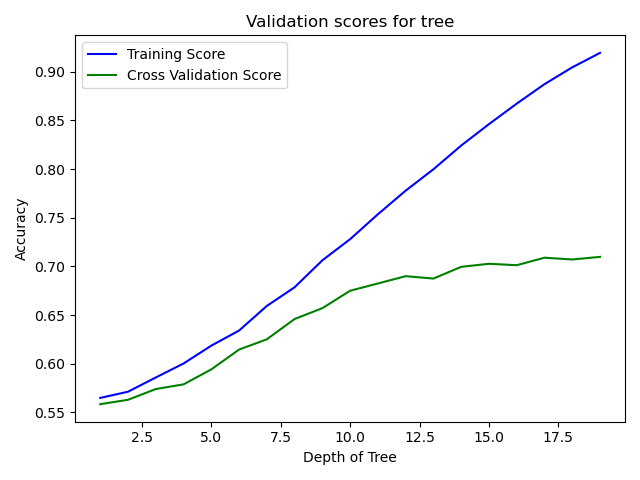
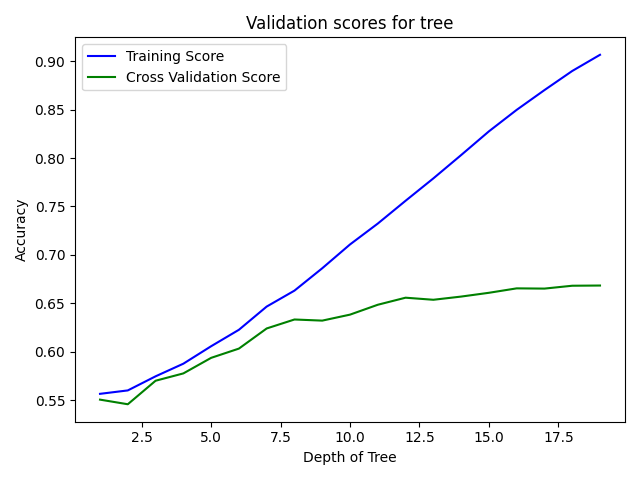
Obtained more entries. 650k entries.
Basically resorted the lists before the name matching because the filtering we were doing was causing it to desort.

diff --git a/inventors_network_reworked_part_1.py b/inventors_network_reworked_part_1.py
@@ -55,13 +55,13 @@ companyTickers = []
 #assigns arrays to proper fields in the dataset
 companyNames = df["Assignee"].tolist()
 stockNames = stocksDF["Name"].tolist()
-tickers = stocksDF["Ticker"].tolist()
 
 # Formats assignee names to make matching easier
 for i in range(len(companyNames)):
     companyNames[i] = companyNames[i].upper()
     if ' ' in companyNames[i]:
         # Checks if inc or corp are in the second word as they aren't always listed the same in both datasets
+        #if "INC" in companyNames[i].split()[1] or "CORP" in companyNames[i].split()[1] or "LTD" in companyNames[i].split()[1]:
         if "INC" in companyNames[i].split()[1] or "CORP" in companyNames[i].split()[1]:
             companyNames[i] = companyNames[i].split()[0]
         else:
@@ -72,11 +72,32 @@ for i in range(len(stockNames)):
     stockNames[i] = stockNames[i].upper()
     if ' ' in stockNames[i]:
         # Checks if inc or corp are in the second word as they aren't always listed the same in both datasets
+        #if "INC" in stockNames[i].split()[1] or "CORP" in stockNames[i].split()[1] or "LTD" in stockNames[i].split()[1]:
         if "INC" in stockNames[i].split()[1] or "CORP" in stockNames[i].split()[1]:
             stockNames[i] = stockNames[i].split()[0]
         else:
             stockNames[i] = stockNames[i].split()[0] + " " + stockNames[i].split()[1]
 
+
+# This reassigns the Assignee column to the new filtered company Names
+df["Assignee"] = companyNames
+# We then resort the dataframe by those Assignee names to use binary search
+df = df.sort_values(by="Assignee")
+# Then we grab those names
+companyNames = df["Assignee"].tolist()
+
+# This reassigns the Name column to the new filtered stock Names
+stocksDF["Name"] = stockNames
+# We then resort the dataframe by those Name names to use binary search
+stocksDF = stocksDF.sort_values(by="Name")
+# Then we grab those names
+stockNames = stocksDF["Name"].tolist()
+
+print(companyNames[0:10])
+print(stockNames[0:10])
+
+# Assigns the tickers list to the Ticker column in the Quotemedia ticker dataset
+tickers = stocksDF["Ticker"].tolist()
 
 print("Matching assignee names to public company names to retrieve tickers")
 # Gets the tickers of the companies from the new stocksDF

diff --git a/inventors_network_reworked_part_2.py b/inventors_network_reworked_part_2.py
@@ -6,6 +6,7 @@ import csv
 import numpy as np
 import matplotlib.pyplot as plt
 import networkx as nx
+from sklearn import preprocessing
 
 # Reads in dataframe with stock prices
 df = pd.read_csv('datasets/inventor-patent-tickers-dates-prices.csv')
@@ -138,6 +139,11 @@ for col in df.keys():
   or (col == 'Month After Application Date')):
     df[col] = pd.Categorical(df[col], ordered=True).codes
     pd.to_numeric(df[col], downcast='float')
+
+df = df.to_numpy()
+normalization = preprocessing.MinMaxScaler()
+min_max_df = normalization.fit_transform(df)
+df = pd.DataFrame(min_max_df)
 
 # Drops price a month after because we dont want to train on that
 df = df.drop(['Price a Month After'], axis=1)

diff --git a/inventors_network_reworked_part_4.py b/inventors_network_reworked_part_4.py
@@ -17,7 +17,7 @@ from sklearn.model_selection import validation_curve
 from sklearn.model_selection import GridSearchCV
 from sklearn.model_selection import RandomizedSearchCV
 from pandas import read_csv
-from seaborn import scatterplot
+#from seaborn import scatterplot
 from matplotlib import pyplot as plt
 
 # Initializes  lists to store features and labels

diff --git a/inventors_network_reworked_part_3.py b/inventors_network_reworked_part_3.py
@@ -17,7 +17,7 @@ from sklearn.neural_network import MLPClassifier
 from sklearn.model_selection import validation_curve
 from sklearn.model_selection import GridSearchCV
 from pandas import read_csv
-from seaborn import scatterplot
+#from seaborn import scatterplot
 from matplotlib import pyplot as plt
 
 

diff --git a/README.md b/README.md
@@ -11,22 +11,32 @@ This is a repo for our class project in our Senior Project in Computer Science c
 https://dataverse.harvard.edu/file.xhtml?persistentId=doi:10.7910/DVN/5F1RRI/OR52T1&version=5.1
 
 
-# You will also need to install the following libraries:
+# You may also need to install the following libraries:
 - pandas
+    - How to install with pip: `pip install pandas`
 - numpy
+    - How to install with pip: `pip install numpy`
 - datetime
+    - How to install with pip: `pip install DateTime`
 - bisect
+    - Should be a built in Python module
 - dateutil.relativedelta
+    - How to install with pip: `pip install python-dateutil`
 - csv
+    - Should be a built in Python module
 - matplotlib.pyplot
+    - How to install with pip: `pip install matplotlib`
 - networkx
+    - How to install with pip: `pip install networkx`
 - yfinance
+    - How to install with pip: `pip install yfinance`
 - sklearn
+    - How to install with pip: `pip install -U scikit-learn`
 
 # Our program is split into 3 parts and they are labeled as follows:
 - inventors_network_reworked_part_1.py, which contains the code for taking in the dataset and matching assignee names with tickers from the Quandl dataset. The dates for a month before, and a month after the patent application date are also computed and appended to the end of the dataframe. Then the stock prices for the companies are retrieved using yfinance and appended to the end of the dataframe, which is then saved as a csv.
     - Estimated Runtime: ~15 minutes mostly due to downloading stock data
 - inventors_network_reworked_part_2.py, which creates a network based on the inventors, assignees, and patents. There are two resulting files that are both csv's that contain the degree, betweenness, and eigenvector centrality measures appended to the previous dataset. One dataset has each value converted to a number to be used in the machine learning, while the other does not.
-    - Estimated Runtime: ~2 minutes
+    - Estimated Runtime: ~3 minutes
 - inventors_network_reworked_part_3.py, which contains the code for performing the machine learning on the dataset from part 2. This is where the results of machine learning is shown. Currently we are using a decision tree model that is getting approximately 69% accuracy.
-    - Estimated Runtime: ~5 minutes
+    - Estimated Runtime: ~15 minutes
